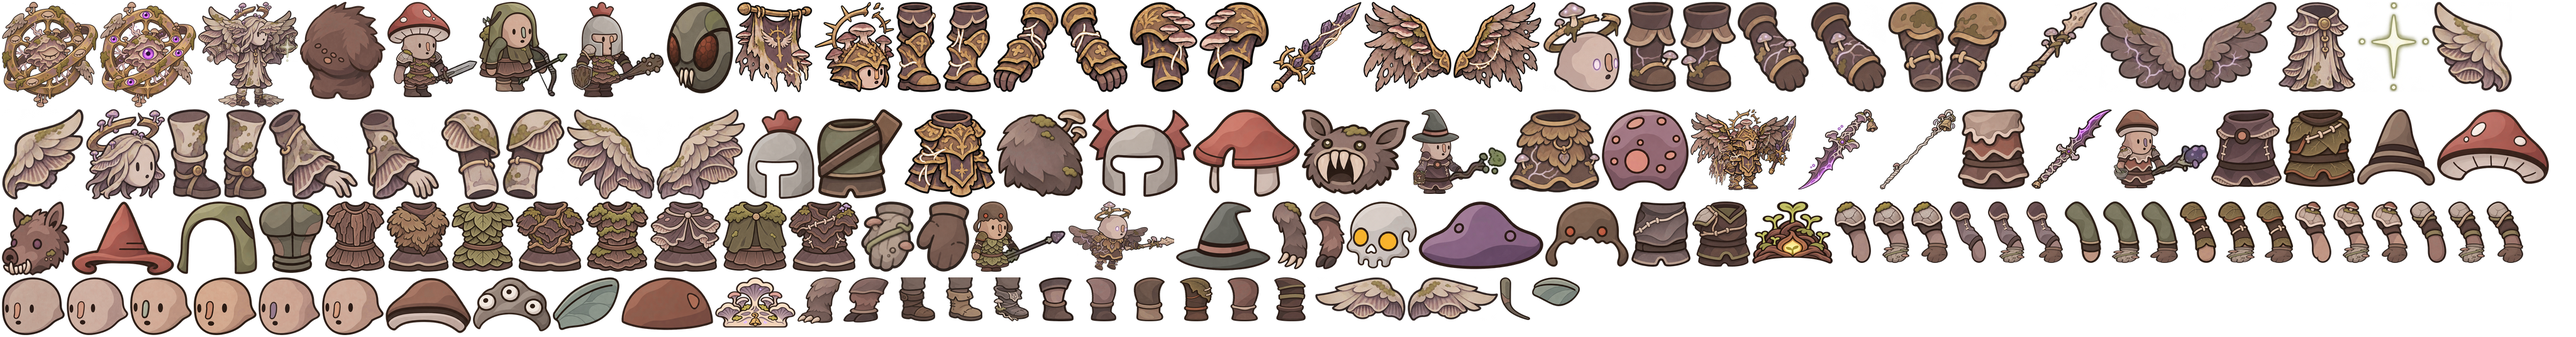
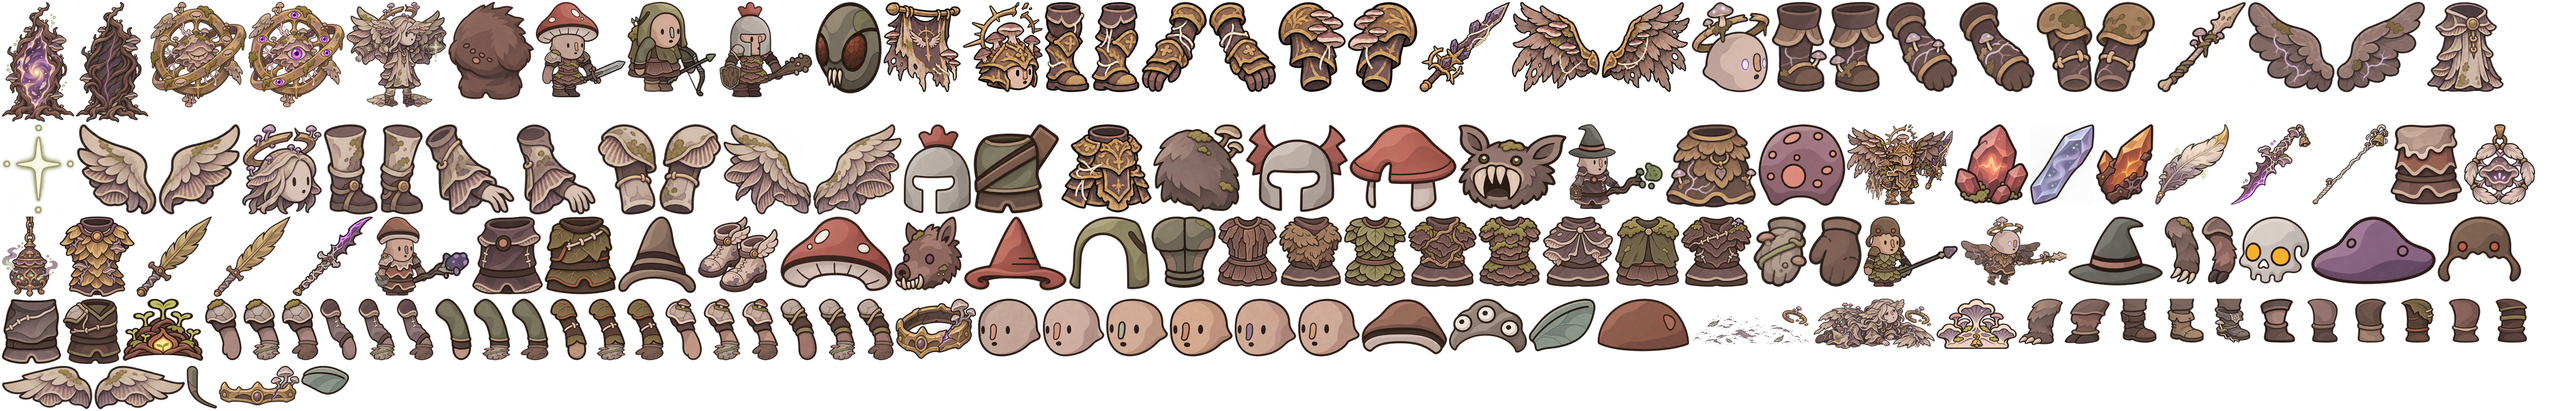
v30: Sezóna 2 – art andělů, Trhliny, krystalů, unikátů a key art

diff --git a/docs/game/lib/ui.js b/docs/game/lib/ui.js
@@ -1,6 +1,6 @@
 // DOM UI v2: HUD, panels (inventory, character, skills+supports, passive tree, craft), tooltips, modals, banners, boss bar
 import {SKILLS,SUPPORTS,CLASSES,SLOTS,SLOT_NAMES,UNIQUES,PASSIVES,PASSIVE_MAP,KEYSTONES,STAT_NAMES,PCT,MON_MODS,LORE,SEASON,FORMS,SETS,skillsFor,GRAVE_MSGS,dailyMod,CITY_QUEST} from './data.js';
-import {tooltipHTML,rarityColor,itemValue,rerollCost,upgradeCost,craftReroll,craftUpgrade,craftExalt,statLine,corruptText,reforgeCost,canReforge,craftReforge} from './items.js';
+import {tooltipHTML,rarityColor,itemSprite,itemValue,rerollCost,upgradeCost,craftReroll,craftUpgrade,craftExalt,statLine,corruptText,reforgeCost,canReforge,craftReforge} from './items.js';
 import {fmt} from './util.js';
 import {Game,Roster,Stash,STASH_MAX,LootFilter} from './game.js';
 import {audio} from './audio.js';
@@ -199,7 +199,7 @@ export class UI{
     const f={well:()=>this.wellHTML(),inv:()=>this.invHTML(),char:()=>this.charHTML(),skills:()=>this.skillsHTML(),craft:()=>this.craftHTML(),atlas:()=>this.egAtlasHTML(),tree:()=>this.treeHTML(),lore:()=>this.loreHTML(),shop:()=>this.shopHTML()}[this.panel];
     const pk=this.panel+':'+(this.panel==='craft'?this.craftTab||'items':''); if(this._pk!==pk){ el.scrollTop=0; this._pk=pk; }
     el.innerHTML=`<button class="x">✕</button>`+f(); el.querySelector('.x').onclick=()=>this.close(); this.wirePanel(el); }
-  slotHTML(it,attrs,eq,count=1){ if(!it) return `<div class="slot empty" ${attrs} ${eq?`style="background-image:url(${UI_('eq_'+(eq==='ring2'?'ring1':eq))})"`:''}></div>`; const c=it.rarity?rarityColor(it.rarity):it.type==='seed'?'#9df07a':it.type==='frag'?'#c9a0ff':it.type==='tome'?'#b9f':it.type==='support'?SUPC:'#e66'; return `<div class="slot r-${it.rarity||it.type||'x'}" style="--rc:${c}" ${attrs}><img src="${this.icon(it.spr,64)}">${count>1?`<b class="rune-count">×${count}</b>`:''}</div>`; }
+  slotHTML(it,attrs,eq,count=1){ if(!it) return `<div class="slot empty" ${attrs} ${eq?`style="background-image:url(${UI_('eq_'+(eq==='ring2'?'ring1':eq))})"`:''}></div>`; const c=it.rarity?rarityColor(it.rarity):it.type==='seed'?'#9df07a':it.type==='frag'?'#c9a0ff':it.type==='tome'?'#b9f':it.type==='support'?SUPC:'#e66'; return `<div class="slot r-${it.rarity||it.type||'x'}" style="--rc:${c}" ${attrs}><img src="${this.icon(itemSprite(it,this.meta.s),64)}">${count>1?`<b class="rune-count">×${count}</b>`:''}</div>`; }
   runeBagHTML(fits=()=>true){
     const stacks=new Map();
     for(const it of this.g.player.runes){
@@ -452,13 +452,18 @@ export class UI{
       m=>{ const inp=m.querySelector('#nk-in'); inp.onkeydown=e=>e.stopPropagation();
         m.querySelectorAll('[data-dc]').forEach(b=>b.onclick=()=>{ const v=inp.value.trim().replace(/\s+/g,' '); if(LB.enabled()&&!LB.validNick(v)){ m.querySelector('.nkerr').textContent='Pro denní žebříček zadej přezdívku (2–16 znaků).'; return; } if(v) LB.setDefaultNick(v); this.hideModal(); onStart({cls:b.dataset.dc,nick:v,daily:day}); });
         m.querySelector('#dd-lb').onclick=()=>this.leaderboard(()=>this.dailyModal(onStart),'daily'); m.querySelector('#dd-back').onclick=back; }); }
+  rosterGroups(list,row){ const cur=list.filter(c=>c.daily||c.season>=SEASON.n), et=list.filter(c=>!c.daily&&!(c.season>=SEASON.n));
+    return (cur.length?`<div class="rgrp rs2"><h3><span>Sezóna ${SEASON.n}</span> · ${SEASON.name}</h3><div class="roster">${cur.map(row).join('')}</div></div>`:'')
+      +(et.length?`<div class="rgrp ret"><h3><span>∞ Věčná říše</span></h3><p class="rnote">Postavy ze sezóny 1. Hrají dál s vlastní truhlou a žebříčkem, jen nesoutěží v sezóně ${SEASON.n}.</p><div class="roster">${et.map(row).join('')}</div></div>`:''); }
   title(onStart){ const list=Roster.list(); document.body.classList.remove('ingame');
     const cn=id=>CLASSES.find(c=>c.id===id);
     this.showModal(`<div class="title"><h1>SPORIUM</h1>
-      <div class="season"><span class="sn">Sezóna ${SEASON.n}</span><b>${SEASON.name}</b><small>${SEASON.desc}</small></div>
+      <div class="s2hero">
+        <div class="s2txt"><span class="sn">Sezóna ${SEASON.n}</span><b>${SEASON.name}</b><small>${SEASON.desc}</small>
+        <div class="s2chips"><span>✧ Nakažení andělé</span><span>◆ Krystaly a recepty</span><span>∞ Staré postavy ve Věčné říši</span></div></div></div>
       <p class="tag">Sestup do hnijících hlubin. Každé patro hlouběji, každý výtrus temnější.</p>
       <div class="lbrow"><button class="big daily" id="t-daily">☼ Denní hlubina</button><button class="big" id="t-lb">Žebříček sezóny</button><button class="big" id="t-bk">Záloha</button><button class="big" id="t-pv">Soukromí</button><button class="big" id="t-hof">Síň slávy</button><button class="big newsb" id="t-news">Novinky${NEWS_LATEST>+(localStorage.getItem('sporium_news_seen')||0)?' <span class="nbadge">nové</span>':''}</button></div>
-      ${list.length?`<h3>Tvoje postavy</h3><div class="roster">${list.map(c=>`<div class="rch"><img src="${this.icon(cn(c.cls)?.spr||'hero_blade',64)}"><div class="ri"><b>${esc(cn(c.cls)?.name||c.name)}${c.nick?` <span class="nk">· ${esc(c.nick)}</span>`:''}${c.daily?` <span class="dtag">☼ ${c.daily}</span>`:c.season<=1?' <span class="dtag etag" title="Postava ze sezóny 1 – hraje ve Věčné říši s vlastním žebříčkem a truhlou">♾ Věčná</span>':` <span class="dtag stag">S${c.season}</span>`}</b><small>Úroveň ${c.lvl} · ${c.dead?'padl v hloubce '+c.best:c.daily&&c.daily!==LB.today()?'uzavřeno · hloubka '+c.best:'hloubka '+c.depth+' · nejhlouběji '+c.best}</small></div>${c.daily?'<span></span>':`<button class="nkb" data-nick="${c.id}" title="Přezdívka pro žebříček">${c.nick?'✎':'+ nick'}</button>`}${c.dead||(c.daily&&c.daily!==LB.today())?'<span></span>':`<button data-play="${c.id}">Hrát</button>`}<button class="del" data-del="${c.id}" title="Smazat">✕</button></div>`).join('')}</div>`:''}
+      ${list.length?this.rosterGroups(list,c=>`<div class="rch"><img src="${this.icon(cn(c.cls)?.spr||'hero_blade',64)}"><div class="ri"><b>${esc(cn(c.cls)?.name||c.name)}${c.nick?` <span class="nk">· ${esc(c.nick)}</span>`:''}${c.daily?` <span class="dtag">☼ ${c.daily}</span>`:c.season<=1?' <span class="dtag etag" title="Postava ze sezóny 1 – hraje ve Věčné říši s vlastním žebříčkem a truhlou">∞ Věčná</span>':` <span class="dtag stag">S${c.season}</span>`}</b><small>Úroveň ${c.lvl} · ${c.dead?'padl v hloubce '+c.best:c.daily&&c.daily!==LB.today()?'uzavřeno · hloubka '+c.best:'hloubka '+c.depth+' · nejhlouběji '+c.best}</small></div>${c.daily?'<span></span>':`<button class="nkb" data-nick="${c.id}" title="Přezdívka pro žebříček">${c.nick?'✎':'+ nick'}</button>`}${c.dead||(c.daily&&c.daily!==LB.today())?'<span></span>':`<button data-play="${c.id}">Hrát</button>`}<button class="del" data-del="${c.id}" title="Smazat">✕</button></div>`):''}
       <h3>${list.length?'Nová postava':'Vyber hrdinu'}</h3><div class="classes">${CLASSES.map(c=>`<button data-c="${c.id}"><img src="${this.icon(c.spr,96)}"><b>${c.name}</b><small>${c.desc}</small><i class="trt">◈ ${c.trait.name}: ${c.trait.desc}</i></button>`).join('')}</div>
       ${this.isTouch?`<p class="keys">Ťukni na pole = pohyb a útok · podrž prst = popis · dva prsty = zoom · šipky vlevo dole = chůze, E = interakce · ťuk na předmět ukáže popis, druhé ťuknutí ho použije</p>${document.fullscreenEnabled?`<button class="big" id="t-fs">Celá obrazovka</button>`:""}`:""}<p class="keys ktb">Tab mapa · WASD / šipky (držet) / klik – pohyb a útok · 1–4 dovednosti · Q lektvar · E / mezerník interakce · Enter sestup · I C K P J panely · M zvuk · Esc menu · kolečko zoom</p></div>`,
     m=>{ m.querySelectorAll('[data-play]').forEach(b=>b.onclick=()=>{ this.hideModal(); onStart({id:b.dataset.play}); });

diff --git a/docs/game/lib/craft.js b/docs/game/lib/craft.js
@@ -1,12 +1,12 @@
 // S2: nová výroba na Oltáři hniloby – Výtrusné krystaly a recepty (inspirace Horadrickou kostkou).
 // Krystaly se neukládají do inventáře, ale do „měšce“ player.crystals = {life:[g1..g5], war:[...], mind:[...]}.
 import {AFFIXES,BASES,UNIQUES} from './data.js';
-import {addAffixes,rollAffix,famOf,makeItem,tooltipHTML,statLine,itemValue,nameItem} from './items.js';
+import {addAffixes,rollAffix,famOf,makeItem,tooltipHTML,statLine,itemSprite,itemValue,nameItem} from './items.js';
 import {rng,fmt} from './util.js';
 
 export const CFAM={
-  life:{name:'Míza',adj:'Mízy',color:'#7fe07a',spr:'crystal_green',tint:[0.6,1,0.55],desc:'život, odolnosti, zbroj, obrana'},
-  war:{name:'Zuřivost',adj:'Zuřivosti',color:'#ff7a5a',spr:'crystal_violet',tint:[1.25,0.45,0.35],desc:'poškození, kritické zásahy, síla, obratnost'},
+  life:{name:'Míza',adj:'Mízy',color:'#ec829e',spr:'crystal_green',tint:[0.6,1,0.55],desc:'život, odolnosti, zbroj, obrana'},
+  war:{name:'Zuřivost',adj:'Zuřivosti',color:'#f0a463',spr:'crystal_violet',tint:[1.25,0.45,0.35],desc:'poškození, kritické zásahy, síla, obratnost'},
   mind:{name:'Mysl',adj:'Mysli',color:'#b98cff',spr:'crystal_violet',tint:[0.8,0.6,1.2],desc:'kouzla, živly, neduhy, esence, přisluhovači'},
 };
 export const GRADES=['Úlomek','Zrnko','Krystal','Čistý krystal','Bezvadný krystal'];
@@ -52,9 +52,13 @@ export const GameCraft={
 
 // ---------------- UI ----------------
 export const UICraft={
-  crystalIcon(f){ return `<img class="cico c-${f}" src="${this.icon(CFAM[f].spr,48)}">`; },
+  crystalIcon(f){
+    const fallback=CFAM[f].spr, spr=itemSprite({type:'crystal',fam:f,spr:fallback},this.meta.s);
+    return `<img class="cico${spr===fallback?' c-'+f:''}" alt="" src="${this.icon(spr,48)}">`;
+  },
   walletHTML(){ const w=walletOf(this.g.player); return `<div class="wallet">${FAMS.map(f=>`<div class="wf"><span class="wn" style="color:${CFAM[f].color}">${this.crystalIcon(f)} ${CFAM[f].name}</span>${w[f].map((n,i)=>`<span class="wg ${n?'':'z'}" title="${GRADES[i]} ${CFAM[f].adj}">${['I','II','III','IV','V'][i]}<b>${n}</b>${i<4&&n>=3?`<button data-cmb="${f}:${i+1}" title="Spojit 3× ${GRADES[i]} → 1× ${GRADES[i+1]} (${10*(i+1)*(i+1)} ✦)">⇧</button>`:''}</span>`).join('')}</div>`).join('')}</div>`; },
   recipeHTML(){ const g=this.g,p=g.player,w=walletOf(p); const it=this.craftSel; const items=[...Object.values(p.equip).filter(Boolean),...p.inv.filter(i=>i.base)];
+    const feather=this.icon('feather_angel',48);
     const fsel=this.rcFam||'life'; const famBtns=`<div class="famsel">${FAMS.map(f=>`<button data-rcf="${f}" class="${f===fsel?'on':''}" style="--fc:${CFAM[f].color}">${this.crystalIcon(f)} ${CFAM[f].name}<small>${CFAM[f].desc}</small></button>`).join('')}</div>`;
     let act='';
     if(it){ const cor=it.corrupted, need=needGrade(it); const B=(id,label,ok,why)=>`<button data-rc="${id}" ${ok?'':'disabled'} title="${why||''}">${label}</button>`;
@@ -74,7 +78,7 @@ export const UICraft={
       }
       act=`<div class="craftsel"><div class="ttc">${tooltipHTML(it)}</div><div class="cbtn">${rows.join('')}</div></div>`; }
     return `<h2>Oltář hniloby · Recepty</h2><div class="hint">Krystaly padají z monster (vzácná a bossové častěji). Barva určuje, jaké vlastnosti recept přidá. Tři stejné krystaly spojíš ve vyšší stupeň (⇧). Výtrusný prach (✦ ${fmt(p.dust)}) slouží ke spojování krystalů. Zkažená jádra: ${p.cores||0}.</div>
-      ${this.walletHTML()}<div class="feath">🪶 Andělská pera: <b>${p.feathers||0}</b> <small>(ze zavřených Trhlin jádra)</small> <button data-fth="1" class="egbtn" ${(p.feathers||0)>=g.featherCost()?'':'disabled'}>Sezónní unikát · ${g.featherCost()} per</button></div>${famBtns}<div class="bag craftbag">${items.map((i,k)=>this.slotHTML(i,`data-craft="${k}" ${i===it?'data-sel="1"':''}`)).join('')}</div>${act}`; },
+      ${this.walletHTML()}<div class="feath">${feather?`<img class="cico" alt="" src="${feather}">`:'🪶'} Andělská pera: <b>${p.feathers||0}</b> <small>(ze zavřených Trhlin jádra)</small> <button data-fth="1" class="egbtn" ${(p.feathers||0)>=g.featherCost()?'':'disabled'}>Sezónní unikát · ${g.featherCost()} per</button></div>${famBtns}<div class="bag craftbag">${items.map((i,k)=>this.slotHTML(i,`data-craft="${k}" ${i===it?'data-sel="1"':''}`)).join('')}</div>${act}`; },
   craftWire(el){ const g=this.g,p=g.player; const it=this.craftSel;
     el.querySelectorAll('[data-rcf]').forEach(b=>b.onclick=()=>{ this.rcFam=b.dataset.rcf; this.renderPanel(); });
     el.querySelectorAll('[data-fth]').forEach(b=>b.onclick=()=>{ const it=g.buyFeatherUnique(); if(it){ this.banner('Dar jádra',it.name); g.log('Pera se proměnila: '+it.name,'loot:legendary'); this.craftSel=it; } this.refresh(); });

diff --git a/docs/game/lib/rig.js b/docs/game/lib/rig.js
@@ -1,5 +1,7 @@
 // Paper-doll hero rig: hand-drawn body parts (head, body, arms, legs) + equipped weapon / offhand / helm,
 // animated procedurally (idle, walk, swing, shoot, cast, hurt). Units = original part pixels.
+import {itemSprite} from './items.js';
+
 const P=(cls,leg,arm,body,armAt,legAt)=>({head:`rig_${cls}_hlava`,body:`rig_${cls}_body`,arm:`rig_${arm}`,leg:`rig_${leg}`,bodyAt:body,armAt,legAt});
 const NL='noha_vsichni_krom_strazce';
 export const RIGS={
@@ -12,7 +14,7 @@ export const RIGS={
 };
 const FOOT=99, CX=25;
 const ARM={w:29,h:49,sh:[10,9],hand:[19,42]}, LEG={w:28,h:35,hip:[14,5]};
-const WEAP={sword:52,sword2:52,axe:50,axe2:54,club:52,club2:52,club3:56,dagger_r:38,dagger_p:40,spear:90,staff_moss:84,staff_green:84,staff_crystal:86,staff_purple:84,staff_shroom:80,staff_red:84,wand_shroom:52,bow:58,crossbow:52,crossbow2:52,q_blade:46,q_blade_held:46,q_scepter:86,q_scepter_held:86};
+const WEAP={sword:52,sword2:52,axe:50,axe2:54,club:52,club2:52,club3:56,dagger_r:38,dagger_p:40,spear:90,staff_moss:84,staff_green:84,staff_crystal:86,staff_purple:84,staff_shroom:80,staff_red:84,wand_shroom:52,bow:58,crossbow:52,crossbow2:52,q_blade:46,q_blade_held:46,q_scepter:86,q_scepter_held:86,s2_wingblade_held:62};
 // helm item sprite -> hand-drawn hat; [hat, bottom of hat as fraction of head height]
 const HATMAP={helm_red:'hat_slice1',helm_brown:'hat_slice4',helm_purple:'hat_slice9',helm_tan:'hat_slice14',helm_violet:'hat_slice12',helm_rust:'hat_slice5',helm_purple2:'hat_slice13',q_crown:'q_crown',eg_seedcrown:'eg_seedcrown'};
 const HATFIT={hat_slice1:0.5,hat_slice2:1.04,hat_slice3:0.42,hat_slice4:0.45,hat_slice5:0.45,hat_slice6:0.98,hat_slice7:0.8,hat_slice8:0.42,hat_slice9:0.45,hat_slice10:0.45,hat_slice11:1.04,hat_slice12:0.98,hat_slice13:0.5,hat_slice14:0.72,hat_slice15:1.0,q_crown_worn:0.5,eg_seedcrown_worn:0.55,q_crown:0.66,eg_seedcrown:0.42};
@@ -35,8 +37,9 @@ export function drawRig(R,e,g,bx,by,k,time,tint,rigId=e.cls,eq=e.equip||{}){
   const chest=worn('chest')||bodyName, leg=worn('boots')||legName, gloves=worn('gloves');
   const glovedArm=gloves&&`${armName}_${gloves}`;
   const arm=R.meta.s[glovedArm]?glovedArm:armName;
-  const wspr=alt(eq.weapon?.spr,'_held'), ospr=alt(eq.offhand?.spr,'_held'), off=eq.offhand?.base;
-  const hspr=eq.helm?.spr;
+  const wspr=alt(itemSprite(eq.weapon,R.meta.s,'_held'),'_held');
+  const ospr=alt(itemSprite(eq.offhand,R.meta.s),'_held'), off=eq.offhand?.base;
+  const hspr=itemSprite(eq.helm,R.meta.s,'_worn');
   // ---- animation parameters ----
   const wp=e._wp||0, mv=e._mv||0, sw=Math.sin(wp);
   let bob=-Math.abs(sw)*2.6*mv + Math.sin(time*3)*0.5*(1-mv), lean=0;
@@ -96,19 +99,22 @@ export function drawRig(R,e,g,bx,by,k,time,tint,rigId=e.cls,eq=e.equip||{}){
   // near leg, body, head, helm (only the cap of the helm, so the face stays visible)
   legLayer(lx,lNear,false);
   part(chest,bxx,byy,body[0],body[1]);
-  fitted(eq.amulet?.spr,bxx+body[0]*0.54,Math.max(byy+body[1]*0.49,head[1]+6),12);
+  fitted(itemSprite(eq.amulet,R.meta.s),bxx+body[0]*0.54,Math.max(byy+body[1]*0.49,head[1]+6),12);
   part(headName,0,0,head[0],head[1],{rot:headR,pv:[head[0]*0.5,head[1]*0.9]});
   const baseHat=hspr&&(hspr.startsWith('hat_')||hspr.endsWith('_worn')?hspr:HATMAP[hspr]);
   const hat=rigId===e.cls?alt(baseHat||hspr,'_worn'):baseHat;
   if(hat&&R.meta.s[hat]){
-    const [w,h]=size(hat), fit=HATFIT[hat]??HATFIT[baseHat]??0.5;
+    const [iw,ih]=size(hat);
+    const scale=hat==='s2_halo_worn'?head[0]*1.2/iw:1;
+    const w=iw*scale, h=ih*scale;
+    const fit=hat==='s2_halo_worn'?0.44:(HATFIT[hat]??HATFIT[baseHat]??0.5);
     part(hat,head[0]*0.5-w/2,head[1]*fit-h,w,h,{rot:headR,pv:[w/2,h+head[1]*(0.9-fit)]});
   }
   // near arm, offhand item held in front of it
   const [nearX,nearY]=armLayer(ax,aNear,false,tint,'ring1');
   if(ospr&&off!=='quiver'){
     const [iw,ih]=size(ospr), edge=Math.max(iw,ih)||1;
-    const shield=eq.offhand.spr.startsWith('shield_'), hanging=eq.offhand.spr.startsWith('lantern');
+    const shield=eq.offhand.spr.startsWith('shield_'), hanging=ospr==='s2_corecensor'||eq.offhand.spr.startsWith('lantern');
     const length=shield?34:24, w=length*iw/edge, h=length*ih/edge;
     part(ospr,nearX-w/2,nearY-h*(hanging?0.15:0.5),w,h,{rot:aNear*0.3});
   }

diff --git a/docs/game/lib/render.js b/docs/game/lib/render.js
@@ -2,13 +2,17 @@
 import {T} from './game.js';
 import {WALL,FLOOR} from './dungeon.js';
 import {rng,edist,dist} from './util.js';
-import {rarityColor} from './items.js';
+import {itemSprite,rarityColor} from './items.js';
 import {SKILLS,biomeFor} from './data.js';
 import {drawRig,animTick,RIGS,drawBeast,drawForm,beastKey} from './rig.js';
 import {angelStill,drawCoreAngel} from './angel-rig.js';
 import {royalTrapActive} from './community.js';
 
 const hex=h=>[parseInt(h.slice(1,3),16)/255,parseInt(h.slice(3,5),16)/255,parseInt(h.slice(5,7),16)/255];
+const SEASON_PROPS={
+  corerift:['core_rift','core_rift_closed',1.08,1.35],
+  fallen:['angel_fallen_wounded','angel_fallen_ash',1.25,0.9],
+};
 export class SceneRenderer{
   constructor(r,overlay){ this.r=r; this.o=overlay; this.ctx=overlay.getContext('2d'); this.spores=[]; this.zoom=1; this.hover=null; }
   uiImg(n){ this._ui=this._ui||{}; if(!this._ui[n]){ const i=new Image(); i.src=`assets/ui/${n}.webp`; this._ui[n]=i; } return this._ui[n]; }
@@ -126,14 +130,27 @@ export class SceneRenderer{
   drawProp(g,pr,time){ const R=this.r;
     if(pr.type==='walltorch'){ const [w,h]=this.fitSprite('torch_wall',T*0.5,T*0.75); R.sprite('torch_wall',pr.x*T+T/2-w/2,pr.y*T+T*0.35,w,h); return; }
     if(pr.type==='stairs'){ const [w,h]=this.fitSprite('stairs',T*1.0,T*1.0); R.sprite('stairs',pr.x*T+T/2-w/2,pr.y*T+T-h,w,h,{tint:pr.locked?[0.5,0.45,0.5]:[1,1,1]}); return; }
+    const season=SEASON_PROPS[pr.type];
+    const spr=season?.[pr.state==='done'?1:0];
+    if(spr&&R.meta.s[spr]){
+      const [w,h]=this.fitSprite(spr,T*season[2],T*season[3]);
+      const pulse=pr.type==='corerift'&&pr.state==='active'?1.12+Math.sin(time*5)*0.12:1;
+      R.sprite(spr,pr.x*T+T/2-w/2,pr.y*T+T-h-2,w,h,{tint:[pulse,pulse,pulse]});
+      return;
+    }
     const big=['gate','arch','arch_broken','altar','shrine','obelisk','chest','pillar','pillars','deadtree','glowshroom_big','brazier','grave','tomb','npc_sage'].includes(pr.spr)||pr.type==='gate';
     const maxH=pr.sz?T*pr.sz[1]:pr.type==='gate'?T*1.25:big?T*1.15:pr.deco?T*0.8:T*0.9; const maxW=pr.sz?T*pr.sz[0]:pr.type==='gate'?T*1.05:T*(big?1.0:0.85);
     const [w,h]=this.fitSprite(pr.spr,maxW,maxH); const bob=pr.type==='lever'?Math.sin(time*3+pr.x)*2:0;
     let tint=[1,1,1]; if(pr.type==='brazier'&&!pr.lit) tint=[0.55,0.55,0.6]; if(pr.type==='rune') tint=pr.on?[0.8,1,1.3]:[0.75,0.75,0.8]; if(pr.type==='fallen') tint=pr.state==='done'?[0.5,0.48,0.5]:[1.15,1.05,1.25]; if(pr.type==='shrine'&&pr.used) tint=[0.5,0.5,0.55]; if(pr.type==='pillar') tint=pr.state==='done'?[0.45,0.45,0.45]:pr.state==='active'?[1.2+Math.sin(time*6)*0.2,1.3,1.1]:[1,1,1]; if(pr.type==='riftexit'&&pr.locked) tint=[0.55,0.5,0.6]; if(pr.type==='corerift') tint=pr.state==='done'?[0.5,0.45,0.55]:[1.15+Math.sin(time*3)*0.15,0.85,1.35]; if(pr.type==='lore'&&pr.read) tint=[0.7,0.7,0.75]; if(pr.type==='grave') tint=pr.respected?[0.55,0.55,0.6]:[0.85,0.88,0.95]; if(pr.type==='lever') tint=[1.05+Math.sin(time*4)*0.08,0.95,0.85];
     R.sprite(pr.spr,pr.x*T+T/2-w/2,pr.y*T+T-h-2+bob,w,h,{tint});
     if(pr.type==='rune'){ /* symbol drawn in overlay */ } }
-  drawGround(g,gr,time){ const R=this.r; const n=gr.gold?'coins':gr.item.spr; const [w,h]=this.fitSprite(n,T*0.55,T*0.55); const b=Math.sin(time*2.5+gr.x*1.3)*2;
-    R.sprite(n,gr.x*T+T/2-w/2,gr.y*T+T*0.85-h+b,w,h,{rot:gr.gold?0:-0.25,tint:gr.item?.tint}); }
+  drawGround(g,gr,time){ const R=this.r, it=gr.item; const n=gr.gold?'coins':itemSprite(it,R.meta.s); const [w,h]=this.fitSprite(n,T*0.55,T*0.55); const b=Math.sin(time*2.5+gr.x*1.3)*2;
+    let tint=it?.tint;
+    if(it?.type==='crystal'&&n===`crystal_${it.fam}`){
+      const brightness=0.78+(it.g||1)*0.08;
+      tint=[brightness,brightness,brightness];
+    }
+    R.sprite(n,gr.x*T+T/2-w/2,gr.y*T+T*0.85-h+b,w,h,{rot:gr.gold?0:-0.25,tint}); }
   drawActor(g,e,spr,time,isP){ const R=this.r; const sc=e.sc||1; const [w,h]=this.spritesize(spr,T*0.92*sc);
     let ox=0,oy=0; if(e.lunge){ const k=Math.sin(e.lunge.t*Math.PI)*0.32; ox=e.lunge.dx*k*T; oy=e.lunge.dy*k*T; }
     const breathe=1+Math.sin(time*3+(e.x||0)*1.7)*0.018; const bx=e.rx*T+T/2+ox, by=e.ry*T+T*0.96+oy;

diff --git a/docs/game/style.css b/docs/game/style.css
@@ -480,3 +480,26 @@ body.touch #panel .x::after{content:none}
 @media (max-width:900px){.atlas{grid-template-columns:repeat(3,minmax(0,1fr));row-gap:16px}}
 .att.cd{box-shadow:inset 0 -3px 0 #b05cff;border-radius:50%}
 .att.cd::after{content:'';}
+/* v29: Sezóna 2 na titulce */
+.title h1{color:#ece0c2;text-shadow:0 0 22px #c99bff55,0 0 54px #f2d36b33}
+.s2hero{position:relative;max-width:820px;margin:8px auto 6px;min-height:230px;display:grid;place-items:center;padding:22px 16px 20px;border-radius:14px;overflow:hidden;
+  background:radial-gradient(ellipse at center,rgba(20,13,24,.85),transparent 73%) center/55% 100% no-repeat,url(assets/ui/s2_keyart.webp) center/cover no-repeat #160f1b;
+  box-shadow:inset 0 0 0 1px #6c4f8c,inset 0 0 40px rgba(0,0,0,.7),0 0 26px rgba(160,110,230,.18)}
+.s2hero::before{content:'';position:absolute;inset:6px;border-radius:10px;border:1px solid rgba(242,211,107,.28);pointer-events:none}
+.s2txt{position:relative;display:flex;flex-direction:column;align-items:center;gap:4px;z-index:1;max-width:350px}
+.s2txt .sn{font:800 12px "Alegreya Sans",sans-serif;letter-spacing:4px;text-transform:uppercase;color:#1a1410;background:linear-gradient(90deg,#c99bff,#f2d36b);padding:3px 12px 2px;border-radius:20px}
+.s2txt b{font:700 40px "Grenze Gotisch",serif;color:#f6dc86;text-shadow:0 0 18px #f2d36b66,0 2px 0 #1a1410;line-height:1.05}
+.s2txt small{font-size:13.5px;color:#efe5f4;line-height:1.35;text-shadow:0 1px 4px #100a13}
+.s2chips{display:flex;flex-wrap:wrap;justify-content:center;gap:6px;margin-top:8px}
+.s2chips span{font:700 12px "Alegreya Sans",sans-serif;color:#eadcff;background:rgba(38,24,48,.86);border:1px solid rgba(201,155,255,.4);border-radius:20px;padding:3px 10px}
+.rgrp{max-width:660px;margin:14px auto 0;padding:4px 10px 10px;border-radius:12px}
+.rgrp h3{margin:6px 0 8px!important}
+.rs2{background:linear-gradient(180deg,rgba(150,90,220,.14),transparent);box-shadow:inset 0 1px 0 rgba(201,155,255,.45)}
+.rs2 h3 span{color:#f2d36b}
+.ret{background:rgba(120,130,150,.06);box-shadow:inset 0 1px 0 rgba(160,170,190,.3)}
+.ret h3{color:#b9c0cc!important}
+.ret .rnote{font-size:12.5px;color:#8f8a80;margin:-4px 0 8px}
+.ret .rch{filter:saturate(.6) brightness(.92)}
+@media (max-width:900px){.s2hero{padding:16px 14px 14px;min-height:170px}.s2txt b{font-size:30px}}
+@media (max-height:500px){.s2hero{padding:10px 14px;min-height:0;margin:0 auto 2px}.s2txt small{display:none}.s2chips{margin-top:4px}.s2txt b{font-size:26px}}
+@media (max-width:560px){.s2hero{padding:132px 14px 14px;background:linear-gradient(180deg,transparent 72px,#160f1b 120px),url(assets/ui/s2_keyart.webp) center top/max(100%,385px) auto no-repeat #160f1b}}

diff --git a/docs/game/lib/news.js b/docs/game/lib/news.js
@@ -1,5 +1,9 @@
 // Novinky – nejnovější nahoře. Při každém nasazení přidej záznam (v = rostoucí číslo verze).
 export const NEWS=[
+  {v:30, d:'17. 11. 2026', t:'Sezóna 2: nový vzhled', i:[
+    'Andělé z jádra mají vlastní postavy: cherub, serafín a archanděl se hýbou po částech (křídla, ruce, nálet, sesílání), Ofan otevírá a zavírá oči podle toho, jestli je zranitelný.',
+    'Nový art pro Trhlinu jádra (otevřená i zacelená), Padlého anděla (a jeho popel), krystaly, andělská pera a všech 6 sezónních unikátů. Svatozář a Čepel padlého křídla mají vlastní vzhled i na postavě.',
+    'Titulní obrazovka má nový obraz sezóny a postavy jsou rozdělené na Sezónu 2 a Věčnou říši.']},
   {v:29, d:'17. 11. 2026', t:'Sezóna 2: Padlí z jádra', i:[
     '<b>Začíná Sezóna 2.</b> Nové postavy hrají S2 se samostatnou truhlou a žebříčkem. Všechny dosavadní postavy jsou teď <b>Věčné (♾)</b>: hrají dál, nic neztratí a mají vlastní žebříček „Věčná“.',
     '<b>Přepočet čísel</b> (styl Diablo 2): poškození a životy jsou o řády menší a procenta se sčítají místo násobení. Nadpoložky „více“, kritický zásah, redukce poškození, regenerace a vysávání mají stropy. Staré předměty se přepočítají automaticky, pasivní strom je slabší a bodů je méně (1 za úroveň do 60, pak 1 za 2 úrovně). Pokud ti po přepočtu body chybí, strom se vrátí a rozdělíš ho znovu.',

diff --git a/docs/game/lib/main.js b/docs/game/lib/main.js
@@ -10,7 +10,7 @@ const loadImg=src=>new Promise((res,rej)=>{ const i=new Image(); i.onload=()=>re
 async function boot(){
   const [atlas,meta,wing,rigArt]=await Promise.all([
     loadImg('assets/atlas.webp?v=26'),fetch('assets/atlas.json?v=26').then(r=>r.json()),loadImg('assets/angel-wing.webp').catch(()=>null),
-    Promise.all([loadImg('assets/rig-art.webp?v=4'),fetch('assets/rig-art.json?v=4').then(r=>r.json())]).catch(()=>null),
+    Promise.all([loadImg('assets/rig-art.webp?v=5'),fetch('assets/rig-art.json?v=5').then(r=>r.json())]).catch(()=>null),
   ]);
   let img=atlas;
   const wingY=Math.max(...Object.values(meta.s).map(([,y,,h])=>y+h))+4;

diff --git a/docs/game/lib/items.js b/docs/game/lib/items.js
@@ -3,6 +3,11 @@ import {rng,fmt} from './util.js';
 let UID=1;
 const slotTag=b=>b.slot==='ring'?'ring':b.slot;
 export const isEquip=it=>!!it.base;
+export function itemSprite(it,sprites,suffix=''){
+  if(!it) return;
+  const season=it.type==='crystal'?`crystal_${it.fam}`:it.unique?.startsWith('s2_')?it.unique:null;
+  return season&&sprites[season+suffix]?season+suffix:it.spr;
+}
 const ATTR=new Set(['might','finesse','wits']);
 export const WEAP_SCALE=ilvl=>1+(Math.min(ilvl,60)-1)*0.11, IMP_SCALE=ilvl=>1+(Math.min(ilvl,60)-1)*0.14;
 export function scaleVal(a,ilvl,v){

diff --git a/Core/game/tools/pack_rig_art.py b/Core/game/tools/pack_rig_art.py
@@ -31,6 +31,16 @@ ANGEL_SHEETS = {
     "arch": (*ANGEL_PARTS, "weapon", "banner"),
 }
 ANGEL_STILLS = (*(f"{kind}_full" for kind in ANGEL_SHEETS), "ophan_closed", "ophan_open")
+SEASON_PROP_PAIRS = (
+    ("core_rift", "core_rift_closed"),
+    ("angel_fallen_wounded", "angel_fallen_ash"),
+)
+SEASON_ICONS = (
+    "crystal_life", "crystal_war", "crystal_mind", "feather_angel",
+    "s2_halo", "s2_wingblade", "s2_corecensor",
+    "s2_featherstep", "s2_seraphmail", "s2_choir",
+)
+SEASON_WORN = ("s2_halo_worn", "s2_wingblade_held")
 
 
 def load_sprite(path):
@@ -38,11 +48,15 @@ def load_sprite(path):
         return image.convert("RGBA")
 
 
-def trim_sprite(sprite, name):
+def sprite_bounds(sprite, name):
     bounds = sprite.getchannel("A").point(lambda alpha: 255 if alpha >= 24 else 0).getbbox()
     if bounds is None:
         raise ValueError(f"Empty sprite: {name}")
-    return sprite.crop(bounds)
+    return bounds
+
+
+def trim_sprite(sprite, name):
+    return sprite.crop(sprite_bounds(sprite, name))
 
 
 def angel_parts(folder):
@@ -70,6 +84,34 @@ def add_angel_art(sprites):
             sprite = trim_sprite(load_sprite(path), path.stem)
             sprite.thumbnail((168, 168), Image.Resampling.LANCZOS)
             sprites[path.stem] = sprite
+
+
+def add_season_art(sprites):
+    folder = RAW / "s2"
+    for pair in SEASON_PROP_PAIRS:
+        variants = {
+            name: load_sprite(folder / f"{name}.png")
+            for name in pair if (folder / f"{name}.png").exists()
+        }
+        if not variants:
+            continue
+        if any(sprite.size != (768, 768) for sprite in variants.values()):
+            raise ValueError(f"{pair} must use 768 × 768 canvases")
+        # Crop both states to the same rectangle so their scale and ground anchor agree.
+        left, top, right, bottom = zip(
+            *(sprite_bounds(sprite, name) for name, sprite in variants.items())
+        )
+        bounds = min(left), min(top), max(right), max(bottom)
+        for name, sprite in variants.items():
+            prop = sprite.crop(bounds)
+            prop.thumbnail((192, 192), Image.Resampling.LANCZOS)
+            sprites[name] = prop
+    for name in (*SEASON_ICONS, *SEASON_WORN):
+        path = folder / f"{name}.png"
+        if path.exists():
+            sprite = trim_sprite(load_sprite(path), name)
+            sprite.thumbnail((128, 128), Image.Resampling.LANCZOS)
+            sprites[name] = sprite
 
 
 def alpha_span(sprite, row):
@@ -143,6 +185,7 @@ def main():
         raise ValueError("No paper-doll sprites found")
     fit_rig_sprites(sprites)
     add_angel_art(sprites)
+    add_season_art(sprites)
 
     base = json.loads((ASSETS / "atlas.json").read_text(encoding="utf-8"))
     width = base["w"]

diff --git a/Core/game/README.md b/Core/game/README.md
@@ -22,6 +22,10 @@ Sezónní andělé jsou v `raw6/s2/`. Tentýž skript vyřízne díly ze sheetů
 a přidá sestavené náhledy i oba stavy Ofana. Úchyty a animace andělů jsou
 v `docs/game/lib/angel-rig.js`.
 
+V `raw6/s2/` jsou také rekvizity Trhliny jádra a Padlého anděla, ikony krystalů,
+pírka a sezónních unikátů a dva sprity nasazené výbavy. Oba stavy každé
+rekvizity se balí se společným ořezem, aby při přepnutí zůstaly na stejném místě.
+
 ## Struktura hry (`docs/game/lib`)
 - `gl.js` – WebGL2 renderer: sprite batch, světelná mapa, pochodeň per-pixel, spory, post FX
 - `dungeon.js` – generátor pater, trezory, hádanky, světla
